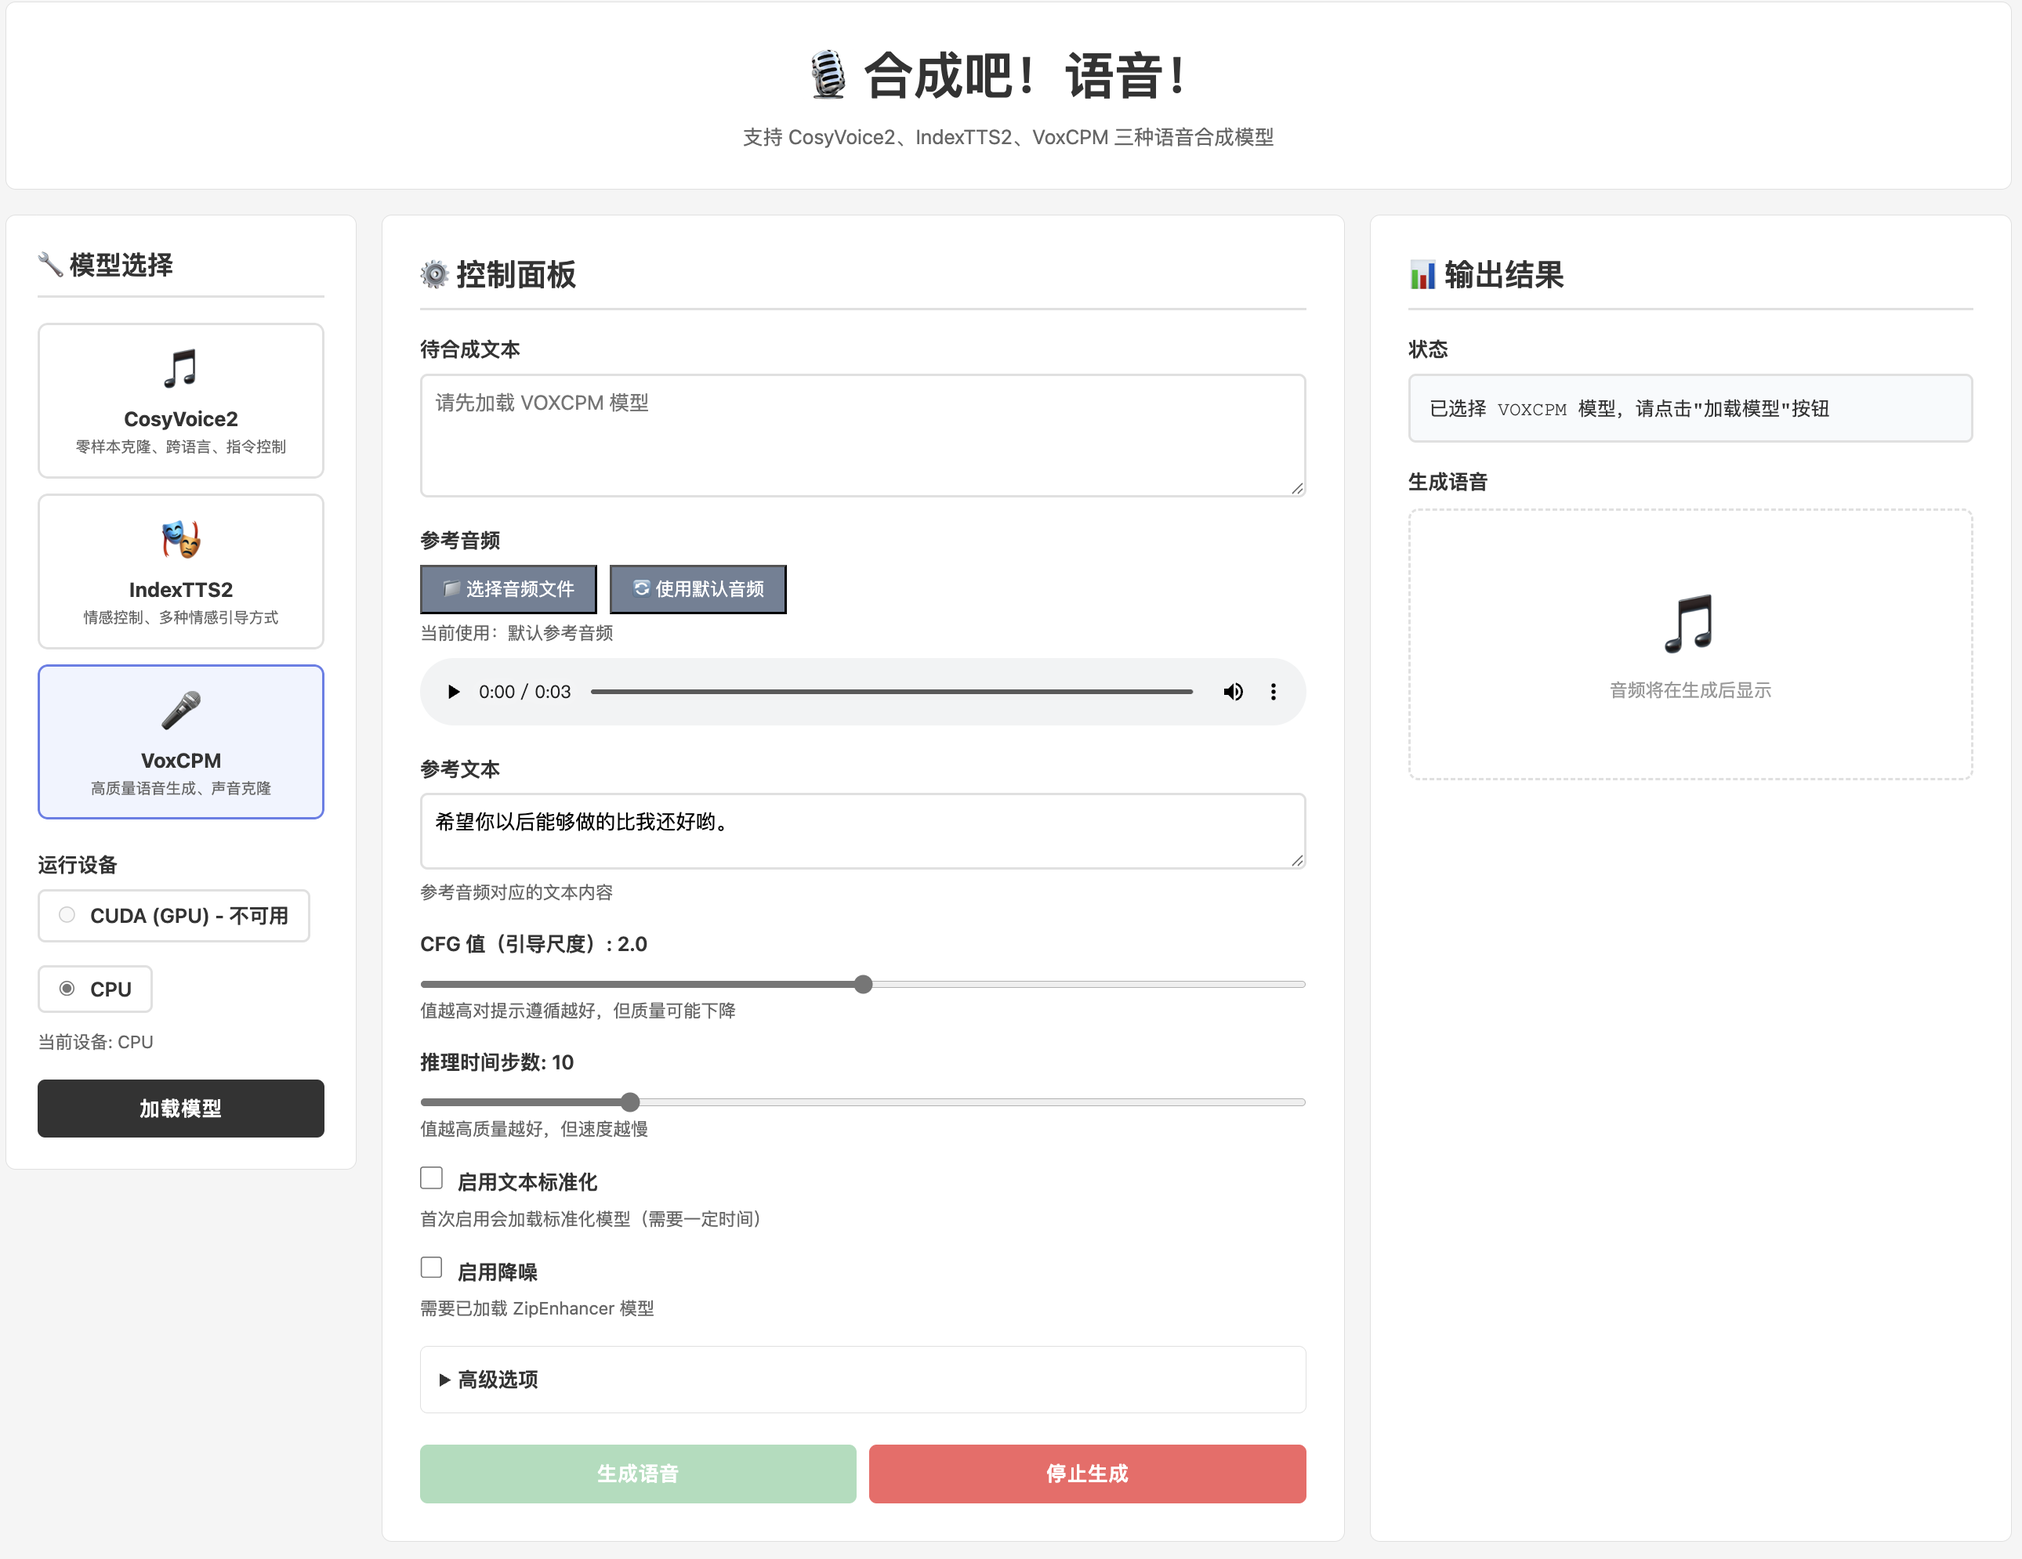
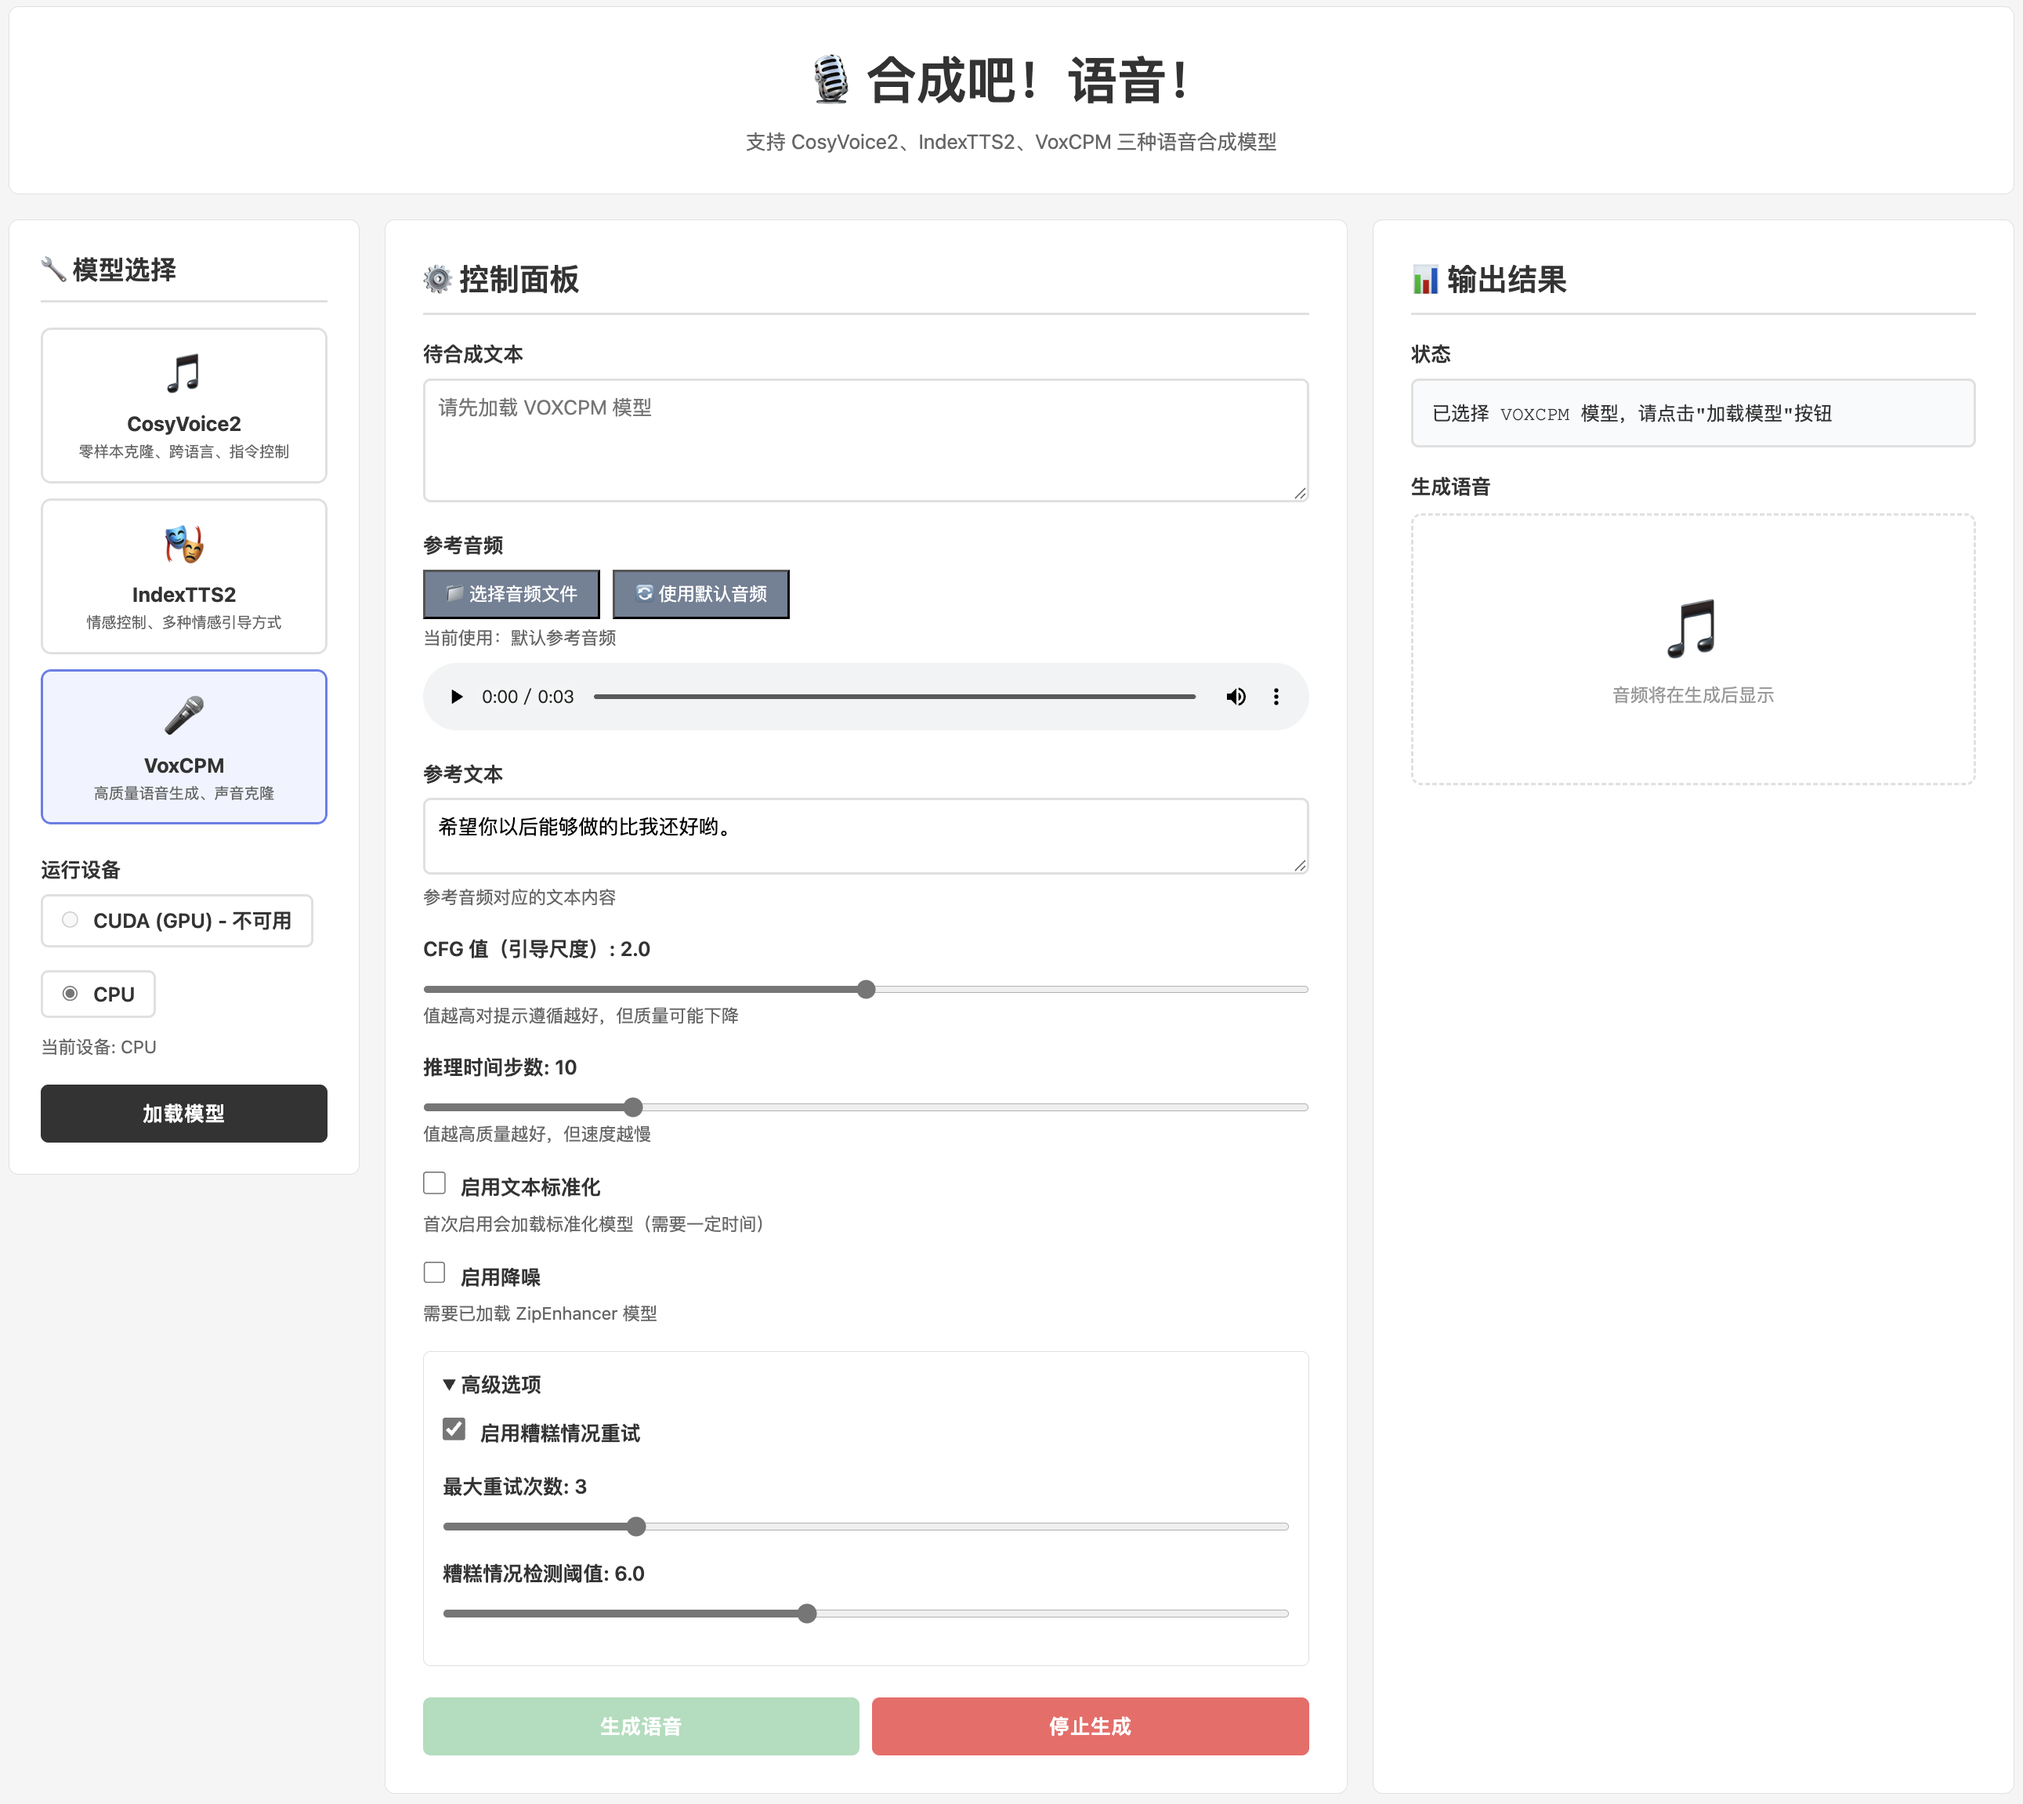
docs(fastapi): 添加 FastAPI WebUI 相关文档和截图
- 新增针对 CosyVoice2、IndexTTS2、VoxCPM 三种语音合成模型的 WebUI 说明文档
- 添加各模型 WebUI 界面截图，提升用户理解和使用体验
- 重命名 cosyvoice2.webui.png 为 cosyvoice2_webui.png，统一文件命名规范
- 更新 VoxCPM WebUI 的截图文件内容

diff --git a/webui/fastapi/README.md b/webui/fastapi/README.md
@@ -1,0 +1,21 @@
+# FastAPI WebUI
+
+针对 CosyVoice2、IndexTTS2、VoxCPM 模型进行语音合成的 Web 开发
+
+## CosyVoice2、IndexTTS2、VoxCPM 模型整合 WebUI
+
+![CosyVoice WebUI](./assets/screenshot/models_cosyvoice_webui.png)
+![IndexTTS WebUI](./assets/screenshot/models_indextts_webui.png)
+![VoxCPM WebUI](./assets/screenshot/models_voxcpm_webui.png)
+
+## CosyVoice2 语音合成 WebUI
+
+![CosyVoice2 WebUI](./assets/screenshot/cosyvoice2_webui.png)
+
+## IndexTTS2 语音合成 WebUI
+
+![IndexTTS2 WebUI](./assets/screenshot/indextts2_webui.png)
+
+## VoxCPM 语音合成 WebUI
+
+![VoxCPM WebUI](./assets/screenshot/voxcpm_webui.png)
